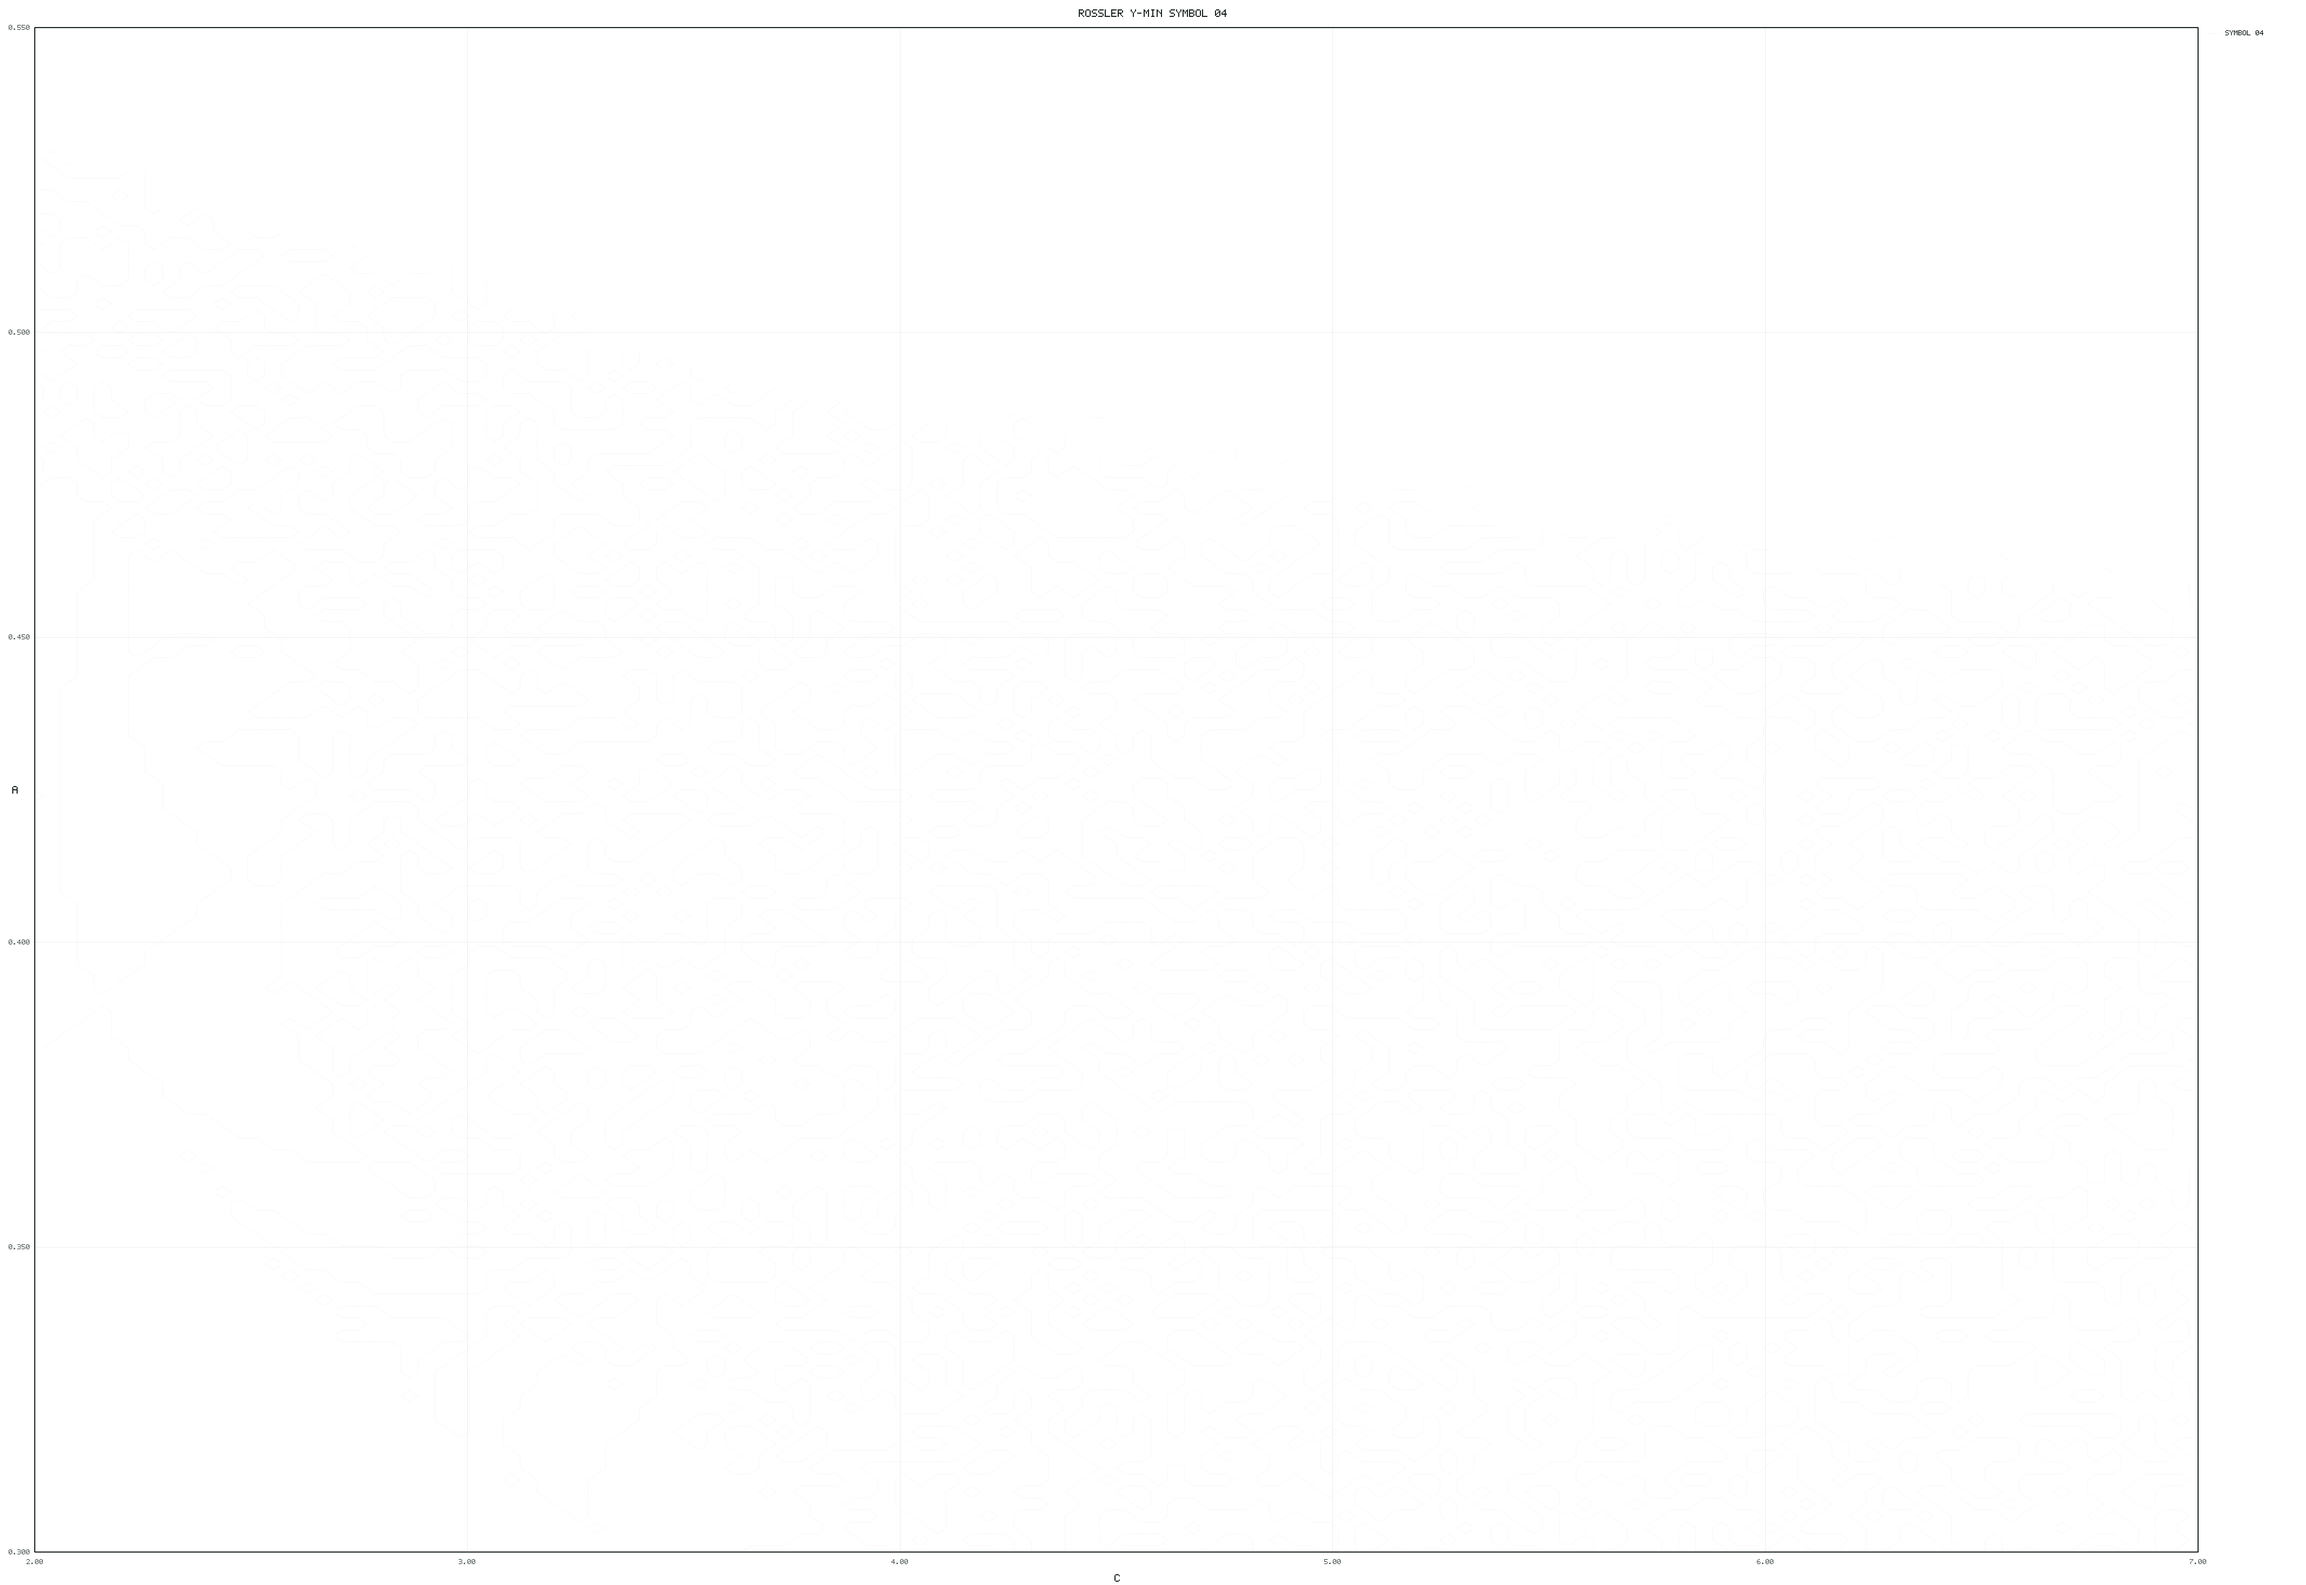
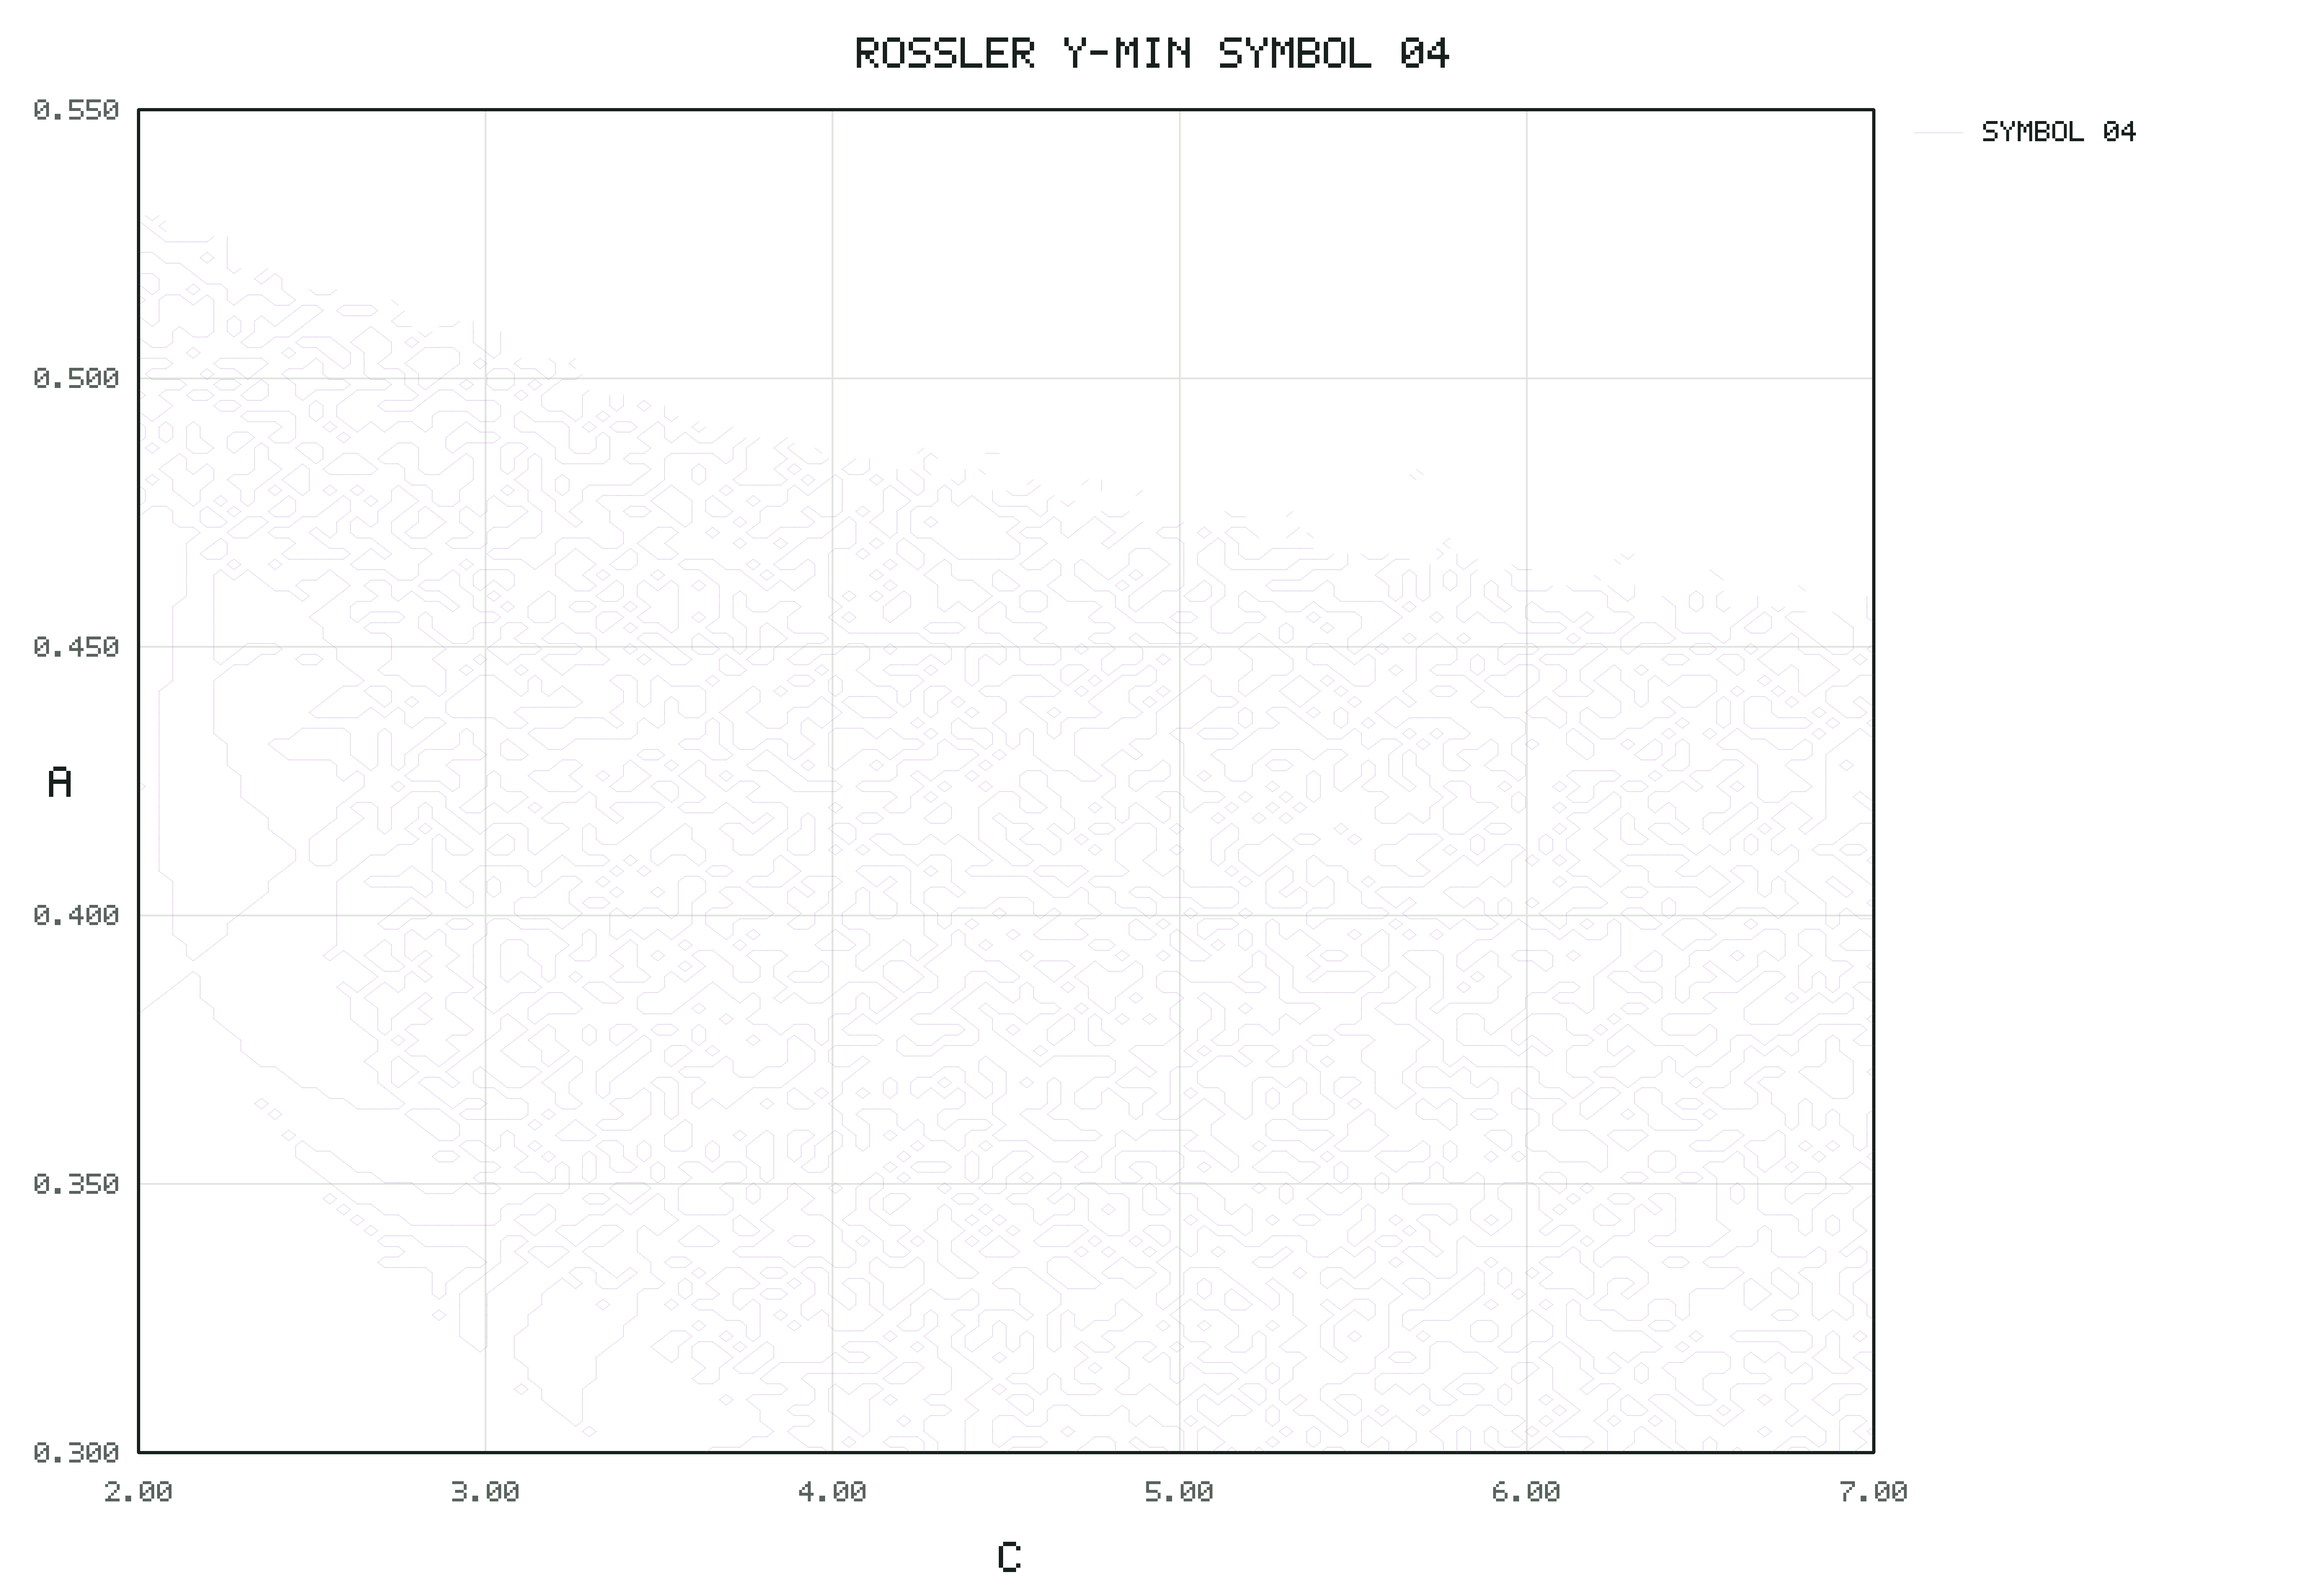
Scale high-DPI flow folding PNG styling

diff --git a/flow_folding/examples/rossler_y_minima_tangent_pngs.py b/flow_folding/examples/rossler_y_minima_tangent_pngs.py
@@ -26,6 +26,9 @@ from typing import Callable, Iterable, Iterator, Sequence
 RGB = tuple[int, int, int]
 Segment = tuple[float, float, float, float]
 
+BASE_PNG_WIDTH = 1600
+BASE_PNG_HEIGHT = 1100
+
 PALETTE = [
     "#b23a2e",
     "#2f66b3",
@@ -214,6 +217,10 @@ class Canvas:
 def hex_rgb(value: str) -> RGB:
     text = value.lstrip("#")
     return int(text[0:2], 16), int(text[2:4], 16), int(text[4:6], 16)
+
+
+def style_scale(width: int, height: int) -> float:
+    return min(width / BASE_PNG_WIDTH, height / BASE_PNG_HEIGHT)
 
 
 def open_scan(path: str):
@@ -488,12 +495,19 @@ def clean_output_dir(output_dir: str, stem: str) -> None:
 
 def render_plot(path: str, title: str, data: ScanData, specs: Sequence[PlotSpec], width: int, height: int) -> list[int]:
     canvas = Canvas(width, height)
-    left = 96
-    right = 300
-    top = 76
-    bottom = 92
+    scale = style_scale(width, height)
+
+    def sp(value: float) -> int:
+        return int(round(value * scale))
+
+    left = sp(96)
+    right = sp(300)
+    top = sp(76)
+    bottom = sp(92)
     plot_width = width - left - right
     plot_height = height - top - bottom
+    if plot_width <= 0 or plot_height <= 0:
+        raise SystemExit(f"PNG size {width}x{height} is too small for scaled plot layout")
     c_min, c_max = data.c_values[0], data.c_values[-1]
     a_min, a_max = data.a_values[0], data.a_values[-1]
 
@@ -508,44 +522,78 @@ def render_plot(path: str, title: str, data: ScanData, specs: Sequence[PlotSpec]
     text_color = hex_rgb("#59635d")
     title_color = hex_rgb("#17201c")
 
-    title_width = canvas.text_width(title, scale=3)
-    canvas.draw_text(max(8, (width - title_width) // 2), 26, title, title_color, scale=3)
+    title_text_scale = max(1, int(round(3 * scale)))
+    tick_text_scale = max(1, int(round(2 * scale)))
+    axis_text_scale = max(1, int(round(3 * scale)))
+    grid_width = max(1.0, 1.0 * scale)
+    axis_width = max(1.0, 2.0 * scale)
+
+    title_width = canvas.text_width(title, scale=title_text_scale)
+    canvas.draw_text(max(sp(8), (width - title_width) // 2), sp(26), title, title_color, scale=title_text_scale)
 
     for idx in range(6):
         c_tick = c_min + (c_max - c_min) * idx / 5
         x = xpix(c_tick)
-        canvas.draw_line(x, top, x, top + plot_height, grid_color, width=1)
+        canvas.draw_line(x, top, x, top + plot_height, grid_color, width=grid_width)
         label = f"{c_tick:.2f}"
-        canvas.draw_text(int(x - canvas.text_width(label, scale=2) / 2), top + plot_height + 20, label, text_color, scale=2)
+        canvas.draw_text(
+            int(x - canvas.text_width(label, scale=tick_text_scale) / 2),
+            top + plot_height + sp(20),
+            label,
+            text_color,
+            scale=tick_text_scale,
+        )
     for idx in range(6):
         a_tick = a_min + (a_max - a_min) * idx / 5
         y = ypix(a_tick)
-        canvas.draw_line(left, y, left + plot_width, y, grid_color, width=1)
+        canvas.draw_line(left, y, left + plot_width, y, grid_color, width=grid_width)
         label = f"{a_tick:.3f}"
-        canvas.draw_text(max(4, left - canvas.text_width(label, scale=2) - 14), int(y - 7), label, text_color, scale=2)
+        canvas.draw_text(
+            max(sp(4), left - canvas.text_width(label, scale=tick_text_scale) - sp(14)),
+            int(y - sp(7)),
+            label,
+            text_color,
+            scale=tick_text_scale,
+        )
 
-    canvas.draw_line(left, top, left + plot_width, top, axis_color, width=2)
-    canvas.draw_line(left + plot_width, top, left + plot_width, top + plot_height, axis_color, width=2)
-    canvas.draw_line(left + plot_width, top + plot_height, left, top + plot_height, axis_color, width=2)
-    canvas.draw_line(left, top + plot_height, left, top, axis_color, width=2)
+    canvas.draw_line(left, top, left + plot_width, top, axis_color, width=axis_width)
+    canvas.draw_line(left + plot_width, top, left + plot_width, top + plot_height, axis_color, width=axis_width)
+    canvas.draw_line(left + plot_width, top + plot_height, left, top + plot_height, axis_color, width=axis_width)
+    canvas.draw_line(left, top + plot_height, left, top, axis_color, width=axis_width)
 
     counts: list[int] = []
     for spec in specs:
         count = 0
         for x0, y0, x1, y1 in spec.segments():
-            canvas.draw_line(xpix(x0), ypix(y0), xpix(x1), ypix(y1), spec.color, width=spec.stroke_width, alpha=spec.alpha)
+            canvas.draw_line(
+                xpix(x0),
+                ypix(y0),
+                xpix(x1),
+                ypix(y1),
+                spec.color,
+                width=spec.stroke_width * scale,
+                alpha=spec.alpha,
+            )
             count += 1
         counts.append(count)
 
-    legend_y = top + 16
-    legend_x = left + plot_width + 28
+    legend_y = top + sp(16)
+    legend_x = left + plot_width + sp(28)
     for spec in specs:
-        canvas.draw_line(legend_x, legend_y, legend_x + 34, legend_y, spec.color, width=max(1.0, spec.stroke_width), alpha=spec.alpha)
-        canvas.draw_text(legend_x + 48, legend_y - 8, spec.label, axis_color, scale=2)
-        legend_y += 28
+        canvas.draw_line(
+            legend_x,
+            legend_y,
+            legend_x + sp(34),
+            legend_y,
+            spec.color,
+            width=max(1.0, spec.stroke_width * scale),
+            alpha=spec.alpha,
+        )
+        canvas.draw_text(legend_x + sp(48), legend_y - sp(8), spec.label, axis_color, scale=tick_text_scale)
+        legend_y += sp(28)
 
-    canvas.draw_text(int(left + plot_width / 2 - 5), height - 30, "C", axis_color, scale=3)
-    canvas.draw_text(34, int(top + plot_height / 2 - 10), "A", axis_color, scale=3)
+    canvas.draw_text(int(left + plot_width / 2 - sp(5)), height - sp(30), "C", axis_color, scale=axis_text_scale)
+    canvas.draw_text(sp(34), int(top + plot_height / 2 - sp(10)), "A", axis_color, scale=axis_text_scale)
     write_png(path, canvas)
     return counts
 
@@ -570,6 +618,7 @@ def write_summary(
     contour_generation_seconds: float,
     width: int,
     height: int,
+    render_style_scale: float,
     line_width_scale: float,
     alpha: float,
 ) -> None:
@@ -583,6 +632,7 @@ def write_summary(
         write("image_format", "png")
         write("png_width", width)
         write("png_height", height)
+        write("style_scale", f"{render_style_scale:.12g}")
         write("line_width_scale", line_width_scale)
         write("contour_alpha", alpha)
         write("symbol_value_source", data.symbol_value_source)
@@ -671,6 +721,7 @@ def render_all(data: ScanData, args: argparse.Namespace) -> str:
         contour_generation_seconds=time.time() - started,
         width=args.width,
         height=args.height,
+        render_style_scale=style_scale(args.width, args.height),
         line_width_scale=args.line_width_scale,
         alpha=args.alpha,
     )
